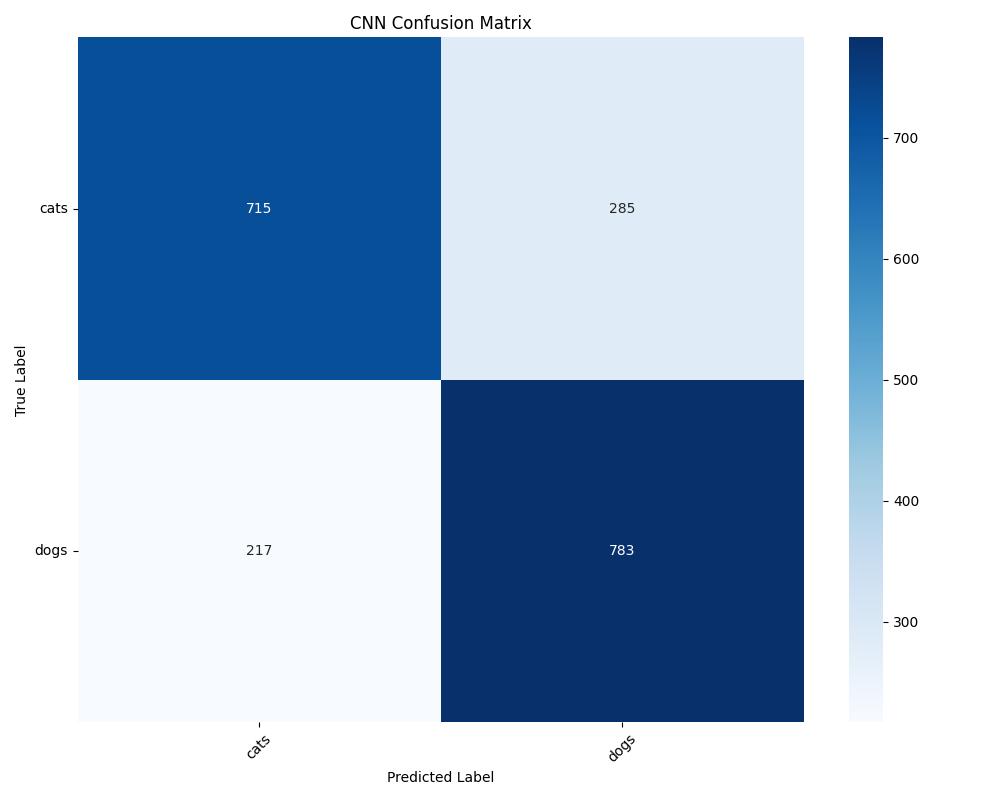
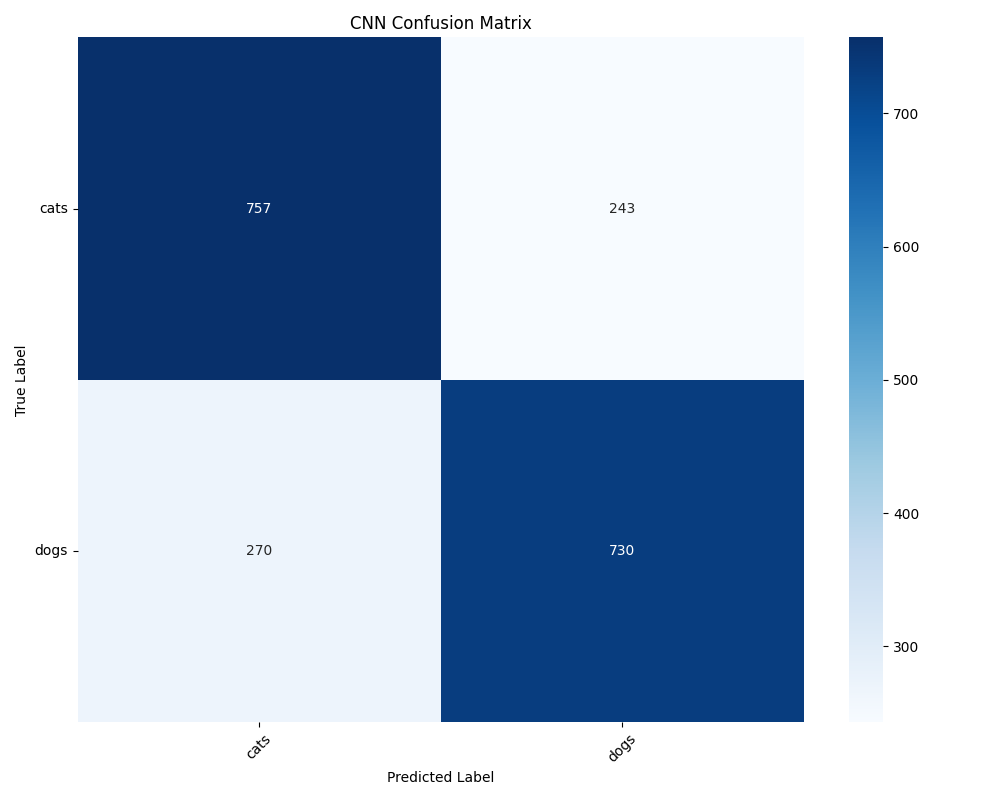
Think it worked.

diff --git a/AI_Cat_Dog/Cat_Dog_AI_30006122.py b/AI_Cat_Dog/Cat_Dog_AI_30006122.py
@@ -8,7 +8,6 @@ import seaborn as sns
 from sklearn import tree
 from sklearn.metrics import accuracy_score, confusion_matrix
 from sklearn.decomposition import PCA
-from sklearn.utils import class_weight
 from tensorflow.keras.preprocessing.image import ImageDataGenerator
 from tensorflow.keras import layers, models
 from tensorflow.keras.callbacks import EarlyStopping
@@ -17,9 +16,9 @@ import tensorflow as tf
 # Ensure the 'plots' directory exists for saving figures
 os.makedirs('plots', exist_ok=True)
 
-def create_tf_dataset(dataset_dir, categories, img_size=(128, 128), batch_size=32, shuffle=True, subset=None, augment=False):
+def create_tf_dataset(dataset_dir, categories, img_size=(128, 128), batch_size=32, shuffle=True, subset=None):
     """
-    Creates a TensorFlow dataset for image classification with optional validation split and augmentation.
+    Creates a TensorFlow dataset for image classification with optional validation split.
     
     Parameters:
     - dataset_dir: Path to the dataset directory.
@@ -28,25 +27,11 @@ def create_tf_dataset(dataset_dir, categories, img_size=(128, 128), batch_size=3
     - batch_size: Number of samples per batch.
     - shuffle: Whether to shuffle the dataset.
     - subset: 'training' or 'validation' for splitting.
-    - augment: Whether to apply data augmentation.
     
     Returns:
-    - dataset: A DirectoryIterator object.
+    - dataset: A TensorFlow dataset object.
     """
-    if augment:
-        datagen = ImageDataGenerator(
-            rescale=1./255,
-            validation_split=0.2,
-            rotation_range=40,
-            width_shift_range=0.2,
-            height_shift_range=0.2,
-            shear_range=0.2,
-            zoom_range=0.2,
-            horizontal_flip=True,
-            fill_mode='nearest'
-        )
-    else:
-        datagen = ImageDataGenerator(rescale=1./255, validation_split=0.2)
+    datagen = ImageDataGenerator(rescale=1./255, validation_split=0.2)
     
     dataset = datagen.flow_from_directory(
         directory=dataset_dir,
@@ -58,7 +43,7 @@ def create_tf_dataset(dataset_dir, categories, img_size=(128, 128), batch_size=3
         shuffle=shuffle,
         subset=subset
     )
-    print(f"Class Indices for {dataset_dir}: {dataset.class_indices}")
+    
     return dataset
 
 def plot_confusion_matrix(conf_matrix, categories, model_name):
@@ -71,13 +56,12 @@ def plot_confusion_matrix(conf_matrix, categories, model_name):
     - model_name: Name of the model (for title and filename).
     """
     plt.figure(figsize=(10, 8))
-    sns.heatmap(conf_matrix, annot=True, fmt='d', cmap=plt.cm.Blues, cbar=True,
-                xticklabels=categories, yticklabels=categories)
+    sns.heatmap(conf_matrix, annot=True, fmt='d', cmap=plt.cm.Blues, cbar=True)
     plt.title(f'{model_name} Confusion Matrix')
     plt.xlabel('Predicted Label')
     plt.ylabel('True Label')
-    plt.xticks(rotation=45)
-    plt.yticks(rotation=0)
+    plt.xticks(np.arange(len(categories)) + 0.5, categories, rotation=45)
+    plt.yticks(np.arange(len(categories)) + 0.5, categories, rotation=0)
     plt.tight_layout()
     plot_filename = f'plots/{model_name.lower().replace(" ", "_")}_confusion_matrix.png'
     plt.savefig(plot_filename)
@@ -122,25 +106,6 @@ def apply_pca(X_train, X_test, n_components=100):
     X_test_pca = pca.transform(X_test)
     return X_train_pca, X_test_pca
 
-def compute_class_weights(y_train):
-    """
-    Computes class weights to handle class imbalance.
-    
-    Parameters:
-    - y_train: Training data labels.
-    
-    Returns:
-    - class_weights: Dictionary mapping class indices to weights.
-    """
-    class_weights_array = class_weight.compute_class_weight(
-        class_weight='balanced',
-        classes=np.unique(y_train),
-        y=y_train
-    )
-    class_weights = {i: weight for i, weight in enumerate(class_weights_array)}
-    print(f"Computed class weights: {class_weights}")
-    return class_weights
-
 def train_decision_tree(X_train_pca, y_train, X_test_pca, y_test, categories):
     """
     Train and evaluate a Decision Tree classifier.
@@ -161,27 +126,7 @@ def train_decision_tree(X_train_pca, y_train, X_test_pca, y_test, categories):
     conf_matrix = confusion_matrix(y_test, y_pred)
     plot_confusion_matrix(conf_matrix, categories, 'Decision Tree')
 
-def extract_data(directory_iterator):
-    """
-    Extracts all data from a DirectoryIterator.
-
-    Parameters:
-    - directory_iterator: A DirectoryIterator object.
-
-    Returns:
-    - X: Numpy array of flattened image data.
-    - y: Numpy array of labels.
-    """
-    X = []
-    y = []
-    steps = len(directory_iterator)
-    for _ in range(steps):
-        X_batch, y_batch = next(directory_iterator)
-        X.extend(X_batch.reshape(X_batch.shape[0], -1))
-        y.extend(y_batch)
-    return np.array(X), np.array(y)
-
-def train_cnn_model(train_ds, val_ds, test_ds, categories, class_weights):
+def train_cnn_model(train_ds, val_ds, test_ds, categories):
     """
     Builds, trains, and evaluates a Convolutional Neural Network (CNN).
     
@@ -190,24 +135,14 @@ def train_cnn_model(train_ds, val_ds, test_ds, categories, class_weights):
     - val_ds: Validation dataset.
     - test_ds: Testing dataset.
     - categories: List of category names.
-    - class_weights: Dictionary mapping class indices to weights.
     """
     model = models.Sequential([
         layers.Conv2D(32, (3, 3), activation='relu', input_shape=(128, 128, 3)),
-        layers.BatchNormalization(),
         layers.MaxPooling2D((2, 2)),
-        
         layers.Conv2D(64, (3, 3), activation='relu'),
-        layers.BatchNormalization(),
         layers.MaxPooling2D((2, 2)),
-        
-        layers.Conv2D(128, (3, 3), activation='relu'),
-        layers.BatchNormalization(),
-        layers.MaxPooling2D((2, 2)),
-        
         layers.Flatten(),
-        layers.Dense(256, activation='relu'),
-        layers.Dropout(0.5),
+        layers.Dense(64, activation='relu'),
         layers.Dense(len(categories), activation='softmax')
     ])
     
@@ -217,16 +152,15 @@ def train_cnn_model(train_ds, val_ds, test_ds, categories, class_weights):
                   metrics=['accuracy'])
     
     # Early Stopping Callback
-    early_stopping = EarlyStopping(monitor='val_accuracy', patience=5, restore_best_weights=True)
+    early_stopping = EarlyStopping(monitor='val_accuracy', patience=3, restore_best_weights=True)
     
     # Train the CNN
     print("Training CNN...")
     history = model.fit(
         train_ds,
-        epochs=30,
+        epochs=10,
         validation_data=val_ds,
-        callbacks=[early_stopping],
-        class_weight=class_weights  # Apply class weights
+        callbacks=[early_stopping]
     )
     
     # Evaluate the CNN
@@ -242,33 +176,6 @@ def train_cnn_model(train_ds, val_ds, test_ds, categories, class_weights):
     
     # Plot training history
     plot_training_history(history)
-
-def visualize_samples(generator, categories, num_samples=5):
-    """
-    Visualizes sample images from the generator.
-    
-    Parameters:
-    - generator: DirectoryIterator object.
-    - categories: List of category names.
-    - num_samples: Number of samples to visualize.
-    """
-    X, y = next(generator)
-    for i in range(num_samples):
-        plt.imshow(X[i])
-        plt.title(categories[int(y[i])])
-        plt.axis('off')
-        plt.show()
-
-def check_class_distribution(y, categories):
-    """
-    Prints the distribution of classes.
-    
-    Parameters:
-    - y: Numpy array of labels.
-    - categories: List of category names.
-    """
-    unique, counts = np.unique(y, return_counts=True)
-    distribution = dict(zip(unique, counts))
 
 def main():
     # Options Menu
@@ -292,45 +199,45 @@ def main():
     train_dir = 'dataset/training_set'
     test_dir = 'dataset/test_set'
     
-    # Create separate generators for Decision Tree
-    print("\nLoading data for Decision Tree...")
-    train_dataset_dt = create_tf_dataset(train_dir, categories, subset='training', shuffle=False, augment=False)
-    test_dataset_dt = create_tf_dataset(test_dir, categories, shuffle=False, augment=False)
-    
-    # Create separate generators for CNN
-    print("\nLoading data for CNN...")
-    train_dataset_cnn = create_tf_dataset(train_dir, categories, subset='training', shuffle=True, augment=True)
-    validation_dataset_cnn = create_tf_dataset(train_dir, categories, subset='validation', shuffle=False, augment=False)
-    test_dataset_cnn = create_tf_dataset(test_dir, categories, shuffle=False, augment=False)
+    print("Loading data...")
+    train_dataset = create_tf_dataset(train_dir, categories, subset='training')
+    validation_dataset = create_tf_dataset(train_dir, categories, subset='validation')
+    test_dataset = create_tf_dataset(test_dir, categories, shuffle=False)
     
     # Extract all training data for Decision Tree
-    print("\nExtracting data for Decision Tree...")
-    X_train_flat, y_train_flat = extract_data(train_dataset_dt)
-    print("Training Data Distribution:")
-    check_class_distribution(y_train_flat, categories)
+    print("Extracting data for Decision Tree...")
+    X_train_flat = []
+    y_train_flat = []
+    for _ in range(len(train_dataset)):
+        X_batch, y_batch = next(train_dataset)
+        X_train_flat.extend(X_batch.reshape(X_batch.shape[0], -1))
+        y_train_flat.extend(y_batch)
+    X_train_flat = np.array(X_train_flat)
+    y_train_flat = np.array(y_train_flat)
     
     # Extract all testing data for Decision Tree
-    print("\nExtracting data for Decision Tree...")
-    X_test_flat, y_test_flat = extract_data(test_dataset_dt)
-    print("Testing Data Distribution:")
-    check_class_distribution(y_test_flat, categories)
+    print("Extracting data for Decision Tree...")
+    X_test_flat = []
+    y_test_flat = []
+    for _ in range(len(test_dataset)):
+        X_batch, y_batch = next(test_dataset)
+        X_test_flat.extend(X_batch.reshape(X_batch.shape[0], -1))
+        y_test_flat.extend(y_batch)
+    X_test_flat = np.array(X_test_flat)
+    y_test_flat = np.array(y_test_flat)
     
     # Apply PCA for Decision Tree
-    print("\nApplying PCA for Decision Tree...")
+    print("Applying PCA for Decision Tree...")
     X_train_pca, X_test_pca = apply_pca(X_train_flat, X_test_flat, n_components=100)
-    
-    # Compute class weights for CNN
-    print("\nComputing class weights for CNN...")
-    class_weights = compute_class_weights(y_train_flat)
     
     # Execute based on user choice
     if choice == 1:
         train_decision_tree(X_train_pca, y_train_flat, X_test_pca, y_test_flat, categories)
     elif choice == 2:
-        train_cnn_model(train_dataset_cnn, validation_dataset_cnn, test_dataset_cnn, categories, class_weights)
+        train_cnn_model(train_dataset, validation_dataset, test_dataset, categories)
     elif choice == 3:
         train_decision_tree(X_train_pca, y_train_flat, X_test_pca, y_test_flat, categories)
-        train_cnn_model(train_dataset_cnn, validation_dataset_cnn, test_dataset_cnn, categories, class_weights)
+        train_cnn_model(train_dataset, validation_dataset, test_dataset, categories)
 
 if __name__ == "__main__":
     main()
